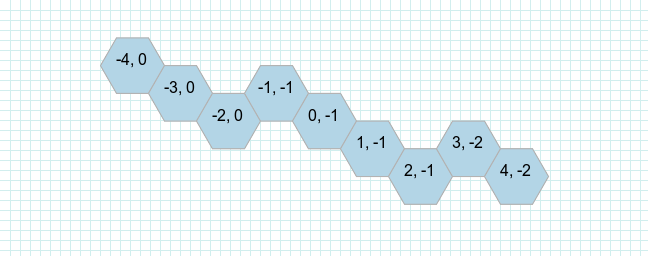
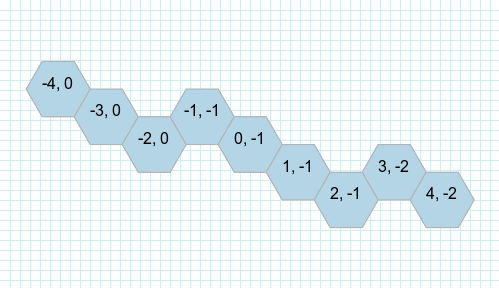
impl automarkup

diff --git a/lib/rhex/markups/auto_markup.rb b/lib/rhex/markups/auto_markup.rb
@@ -1,0 +1,74 @@
+# frozen_string_literal: true
+
+module Rhex
+  module Markups
+    class AutoMarkup
+      Center = Struct.new(:x, :y, keyword_init: true)
+      Markup = Struct.new(:cols, :rows, :center, keyword_init: true)
+
+      def initialize(grid, hex_size)
+        @grid = grid
+        @hex_size = hex_size
+      end
+
+      def call # rubocop:disable Metrics/AbcSize, Metrics/MethodLength
+        dch = Rhex::Decorators::FlatToppedHex.new(
+          central_hex,
+          hex_size: hex_size,
+          center: nil
+        )
+        cols = top_left_corner.distance(top_right_corner) * dch.width + dch.width.ceil
+        rows = top_left_corner.distance(bottom_left_corner) * dch.height
+
+        center = Center.new(
+          x: cols / 2 + dch.absolute_coordinate_x.abs,
+          y: rows / 2 + dch.absolute_coordinate_y.abs
+        ).freeze
+
+        Markup.new(cols: cols, rows: rows, center: center).freeze
+      end
+
+      private
+
+      attr_reader :grid, :hex_size
+
+      def central_hex
+        @central_hex ||= diagonal_from_top_right_to_bottom_left
+                         .intersection(diagonal_from_top_left_to_bottom_right)
+                         .first
+      end
+
+      def diagonal_from_top_left_to_bottom_right
+        @diagonal_from_top_left_to_bottom_right ||= top_left_corner.linedraw(bottom_right_corner)
+      end
+
+      def diagonal_from_top_right_to_bottom_left
+        @diagonal_from_top_right_to_bottom_left ||= top_right_corner.linedraw(bottom_left_corner)
+      end
+
+      def top_left_corner
+        @top_left_corner ||= Rhex::AxialHex.new(q_map.min, r_map.min)
+      end
+
+      def top_right_corner
+        @top_right_corner ||= Rhex::AxialHex.new(-top_left_corner.q, -top_left_corner.s)
+      end
+
+      def bottom_right_corner
+        @bottom_right_corner ||= Rhex::AxialHex.new(q_map.max, r_map.max)
+      end
+
+      def bottom_left_corner
+        @bottom_left_corner ||= Rhex::AxialHex.new(-bottom_right_corner.q, -bottom_right_corner.s)
+      end
+
+      def q_map
+        @q_map ||= grid.to_a.map(&:q)
+      end
+
+      def r_map
+        @r_map ||= grid.to_a.map(&:r)
+      end
+    end
+  end
+end

diff --git a/lib/rhex/grid_to_pic.rb b/lib/rhex/grid_to_pic.rb
@@ -8,19 +8,15 @@ module Rhex
 
     FONT_SIZE = 16
 
-    DEFAULT_COLS = 648
-    DEFAULT_ROWS = 648
-
-    def initialize(grid, hex_size: 32, cols: DEFAULT_COLS, rows: DEFAULT_ROWS)
+    def initialize(grid, hex_size: 32, markup: Rhex::Markups::AutoMarkup)
       @grid = grid
       @hex_size = hex_size
-      @cols = cols
-      @rows = rows
+      @markup = markup.new(grid, hex_size).call
     end
 
     def call(filename)
       grid.each do |hex|
-        decorated_hex = Decorators::FlatToppedHex.new(hex, hex_size: hex_size, center: center)
+        decorated_hex = Decorators::FlatToppedHex.new(hex, hex_size: hex_size, center: markup.center)
 
         Draw::Hexagon.new(gc, decorated_hex).call
       end
@@ -31,18 +27,13 @@ module Rhex
 
     private
 
-    attr_reader :grid, :hex_size, :cols, :rows
-
-    def center
-      # (rows / 2) + 48
-      @center ||= OpenStruct.new(x: cols / 2, y: rows / 2).freeze
-    end
+    attr_reader :grid, :hex_size, :markup
 
     def imgl
       @imgl ||=
         begin
           imgl = Magick::ImageList.new
-          imgl.new_image(cols, rows, Magick::HatchFill.new('transparent', 'lightcyan2'))
+          imgl.new_image(markup.cols, markup.rows, Magick::HatchFill.new('transparent', 'lightcyan2'))
           imgl
         end
     end

diff --git a/lib/rhex/decorators/flat_topped_hex.rb b/lib/rhex/decorators/flat_topped_hex.rb
@@ -19,14 +19,30 @@ module Rhex
         @coordinates ||= Coordinates.new(x: coordinate_x, y: coordinate_y)
       end
 
+      def absolute_coordinate_x
+        height * q
+      end
+
+      def absolute_coordinate_y
+        width * (r + q / 2.0)
+      end
+
+      def height
+        hex_size * 3.0 / 2.0
+      end
+
+      def width
+        hex_size * Math.sqrt(3)
+      end
+
       private
 
       def coordinate_x
-        center.x + hex_size * 3.0 / 2.0 * q
+        center.x + absolute_coordinate_x
       end
 
       def coordinate_y
-        center.y + hex_size * Math.sqrt(3) * (r + q / 2.0)
+        center.y + absolute_coordinate_y
       end
     end
   end

diff --git a/spec/lib/rhex/axial_hex_spec.rb b/spec/lib/rhex/axial_hex_spec.rb
@@ -32,7 +32,7 @@ RSpec.describe Rhex::AxialHex do
       grid.merge(obstacles)
           .merge(expect_field_of_view)
           .merge([source])
-          .to_pic('field_of_view', rows: 512)
+          .to_pic('field_of_view')
 
       expect(field_of_view).to contain_exactly(*expect_field_of_view)
     end
@@ -60,7 +60,7 @@ RSpec.describe Rhex::AxialHex do
 
       path = source.linedraw(target)
       path.each { _1.image_config = Rhex::ImageConfigs.path_image_config }
-      path.to_grid.to_pic('linedraw', rows: 256)
+      path.to_grid.to_pic('linedraw')
 
       expect(path)
         .to contain_exactly(

diff --git a/lib/rhex/grid.rb b/lib/rhex/grid.rb
@@ -56,10 +56,8 @@ module Rhex
       @hash.values
     end
 
-    def to_pic(filename, cols: Rhex::GridToPic::DEFAULT_COLS, rows: Rhex::GridToPic::DEFAULT_ROWS)
-      Rhex::GridToPic
-        .new(self, cols: cols, rows: rows)
-        .call(filename)
+    def to_pic(filename)
+      Rhex::GridToPic.new(self).call(filename)
     end
 
     private

diff --git a/lib/rhex.rb b/lib/rhex.rb
@@ -8,6 +8,7 @@ require_relative 'rhex/grid_to_pic'
 require_relative 'rhex/image_configs'
 require_relative 'rhex/decorators/flat_topped_hex'
 require_relative 'rhex/draw/hexagon'
+require_relative 'rhex/markups/auto_markup'
 
 require 'ostruct'
 require 'yaml'
